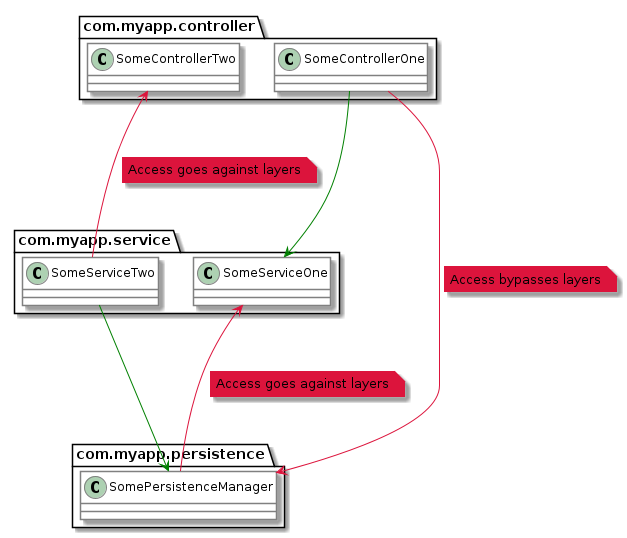
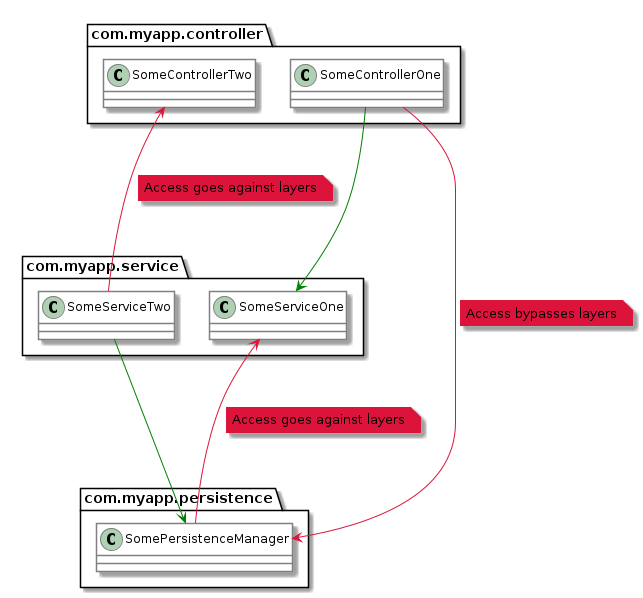
set release version 0.15.0

diff --git a/docs/userguide/html/000_Index.html b/docs/userguide/html/000_Index.html
@@ -449,7 +449,7 @@ h4 {
 <div id="header">
 <h1>ArchUnit User Guide</h1>
 <div class="details">
-<span id="revnumber">version 0.14.1</span>
+<span id="revnumber">version 0.15.0</span>
 </div>
 <div id="toc" class="toc2">
 <div id="toctitle">Table of Contents</div>
@@ -614,7 +614,7 @@ Maven Central:</p>
 <pre class="highlightjs highlight nowrap"><code data-lang="xml" class="language-xml hljs">&lt;dependency&gt;
     &lt;groupId&gt;com.tngtech.archunit&lt;/groupId&gt;
     &lt;artifactId&gt;archunit-junit4&lt;/artifactId&gt;
-    &lt;version&gt;0.14.1&lt;/version&gt;
+    &lt;version&gt;0.15.0&lt;/version&gt;
     &lt;scope&gt;test&lt;/scope&gt;
 &lt;/dependency&gt;</code></pre>
 </div>
@@ -623,7 +623,7 @@ Maven Central:</p>
 <div class="title">build.gradle</div>
 <div class="content">
 <pre class="highlightjs highlight nowrap"><code class="language-none hljs">dependencies {
-    testImplementation 'com.tngtech.archunit:archunit-junit4:0.14.1'
+    testImplementation 'com.tngtech.archunit:archunit-junit4:0.15.0'
 }</code></pre>
 </div>
 </div>
@@ -644,7 +644,7 @@ from Maven Central:</p>
 <pre class="highlightjs highlight nowrap"><code data-lang="xml" class="language-xml hljs">&lt;dependency&gt;
     &lt;groupId&gt;com.tngtech.archunit&lt;/groupId&gt;
     &lt;artifactId&gt;archunit-junit5&lt;/artifactId&gt;
-    &lt;version&gt;0.14.1&lt;/version&gt;
+    &lt;version&gt;0.15.0&lt;/version&gt;
     &lt;scope&gt;test&lt;/scope&gt;
 &lt;/dependency&gt;</code></pre>
 </div>
@@ -653,7 +653,7 @@ from Maven Central:</p>
 <div class="title">build.gradle</div>
 <div class="content">
 <pre class="highlightjs highlight nowrap"><code class="language-none hljs">dependencies {
-    testImplementation 'com.tngtech.archunit:archunit-junit5:0.14.1'
+    testImplementation 'com.tngtech.archunit:archunit-junit5:0.15.0'
 }</code></pre>
 </div>
 </div>
@@ -670,7 +670,7 @@ context, include the core ArchUnit dependency from Maven Central:</p>
 <pre class="highlightjs highlight nowrap"><code data-lang="xml" class="language-xml hljs">&lt;dependency&gt;
     &lt;groupId&gt;com.tngtech.archunit&lt;/groupId&gt;
     &lt;artifactId&gt;archunit&lt;/artifactId&gt;
-    &lt;version&gt;0.14.1&lt;/version&gt;
+    &lt;version&gt;0.15.0&lt;/version&gt;
     &lt;scope&gt;test&lt;/scope&gt;
 &lt;/dependency&gt;</code></pre>
 </div>
@@ -679,7 +679,7 @@ context, include the core ArchUnit dependency from Maven Central:</p>
 <div class="title">build.gradle</div>
 <div class="content">
 <pre class="highlightjs highlight nowrap"><code class="language-none hljs">dependencies {
-   testImplementation 'com.tngtech.archunit:archunit:0.14.1'
+   testImplementation 'com.tngtech.archunit:archunit:0.15.0'
 }</code></pre>
 </div>
 </div>
@@ -885,7 +885,7 @@ class MyArchitectureTest {
 <h3 id="_class_and_package_containment_checks"><a class="anchor" href="#_class_and_package_containment_checks"></a>4.3. Class and Package Containment Checks</h3>
 <div class="imageblock">
 <div class="content">
-<img src="class-package-contain.png" alt="class package contain" width="319" height="187">
+<img src="class-package-contain.png" alt="class package contain" width="348" height="203">
 </div>
 </div>
 <div class="listingblock">
@@ -910,7 +910,7 @@ class MyArchitectureTest {
 </div>
 <div class="imageblock">
 <div class="content">
-<img src="inheritance-access-check.png" alt="inheritance access check" width="549" height="248">
+<img src="inheritance-access-check.png" alt="inheritance access check" width="569" height="266">
 </div>
 </div>
 <div class="listingblock">
@@ -938,7 +938,7 @@ class MyArchitectureTest {
 <h3 id="_layer_checks"><a class="anchor" href="#_layer_checks"></a>4.6. Layer Checks</h3>
 <div class="imageblock">
 <div class="content">
-<img src="layer-check.png" alt="layer check" width="627" height="538">
+<img src="layer-check.png" alt="layer check" width="643" height="598">
 </div>
 </div>
 <div class="listingblock">
@@ -958,7 +958,7 @@ class MyArchitectureTest {
 <h3 id="_cycle_checks"><a class="anchor" href="#_cycle_checks"></a>4.7. Cycle Checks</h3>
 <div class="imageblock">
 <div class="content">
-<img src="cycle-check.png" alt="cycle check" width="729" height="338">
+<img src="cycle-check.png" alt="cycle check" width="749" height="398">
 </div>
 </div>
 <div class="listingblock">
@@ -1780,7 +1780,7 @@ contain dependencies on any <code>adapter</code> package.</p>
 </div>
 <div class="imageblock">
 <div class="content">
-<img src="onion-architecture-check.png" alt="onion architecture check" width="1058" height="743">
+<img src="onion-architecture-check.png" alt="onion architecture check" width="1139" height="771">
 </div>
 </div>
 </div>
@@ -2328,6 +2328,10 @@ the imported Java classes will simply be dropped.</p>
     public static final ArchRule rule2 = classes().should()...
 }</code></pre>
 </div>
+</div>
+<div class="paragraph">
+<p>Note for users of JUnit 5: the annotation <code>@Disabled</code> has no effect here.
+Instead, <code>@ArchIgnore</code> should be used.</p>
 </div>
 </div>
 <div class="sect3">

diff --git a/docs/_pages/getting-started.md b/docs/_pages/getting-started.md
@@ -15,7 +15,7 @@ ArchUnit can be obtained from Maven Central.
 <dependency>
     <groupId>com.tngtech.archunit</groupId>
     <artifactId>archunit</artifactId>
-    <version>0.14.1</version>
+    <version>0.15.0</version>
     <scope>test</scope>
 </dependency>
 ```
@@ -23,7 +23,7 @@ ArchUnit can be obtained from Maven Central.
 #### Gradle
 ```groovy
 dependencies {
-    testImplementation 'com.tngtech.archunit:archunit:0.14.1'
+    testImplementation 'com.tngtech.archunit:archunit:0.15.0'
 }
 ```
 

diff --git a/README.md b/README.md
@@ -17,7 +17,7 @@ framework.
 ###### Gradle
 
 ```
-testImplementation 'com.tngtech.archunit:archunit:0.14.1'
+testImplementation 'com.tngtech.archunit:archunit:0.15.0'
 ```
 
 ###### Maven
@@ -26,7 +26,7 @@ testImplementation 'com.tngtech.archunit:archunit:0.14.1'
 <dependency>
     <groupId>com.tngtech.archunit</groupId>
     <artifactId>archunit</artifactId>
-    <version>0.14.1</version>
+    <version>0.15.0</version>
     <scope>test</scope>
 </dependency>
 ```
